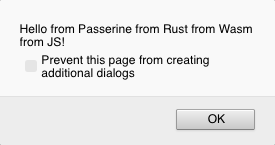
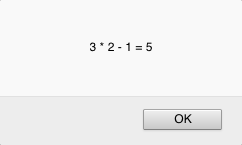
updated readme

diff --git a/README.md b/README.md
@@ -21,19 +21,17 @@ Third, in the `playground` directory, run `wasm-pack build` to build passerine a
 Fourth, to run the playground, `cd` into `playground/site`. Sadly, we have to rely on the JS ecosystem: install dependencies with `npm install` and run the playground locally with `npm run serve`. Eventually, the playground will basically be a little codemirror editor that we can embed on https://passerine.io.
 
 ## You should see
-Right now, there should be a series of alerts that tell you what step of compilation the compiler is on (this is for debugging purposes). After clicking 'OK' a bunch, we'll compile and run the passerine script:
+Right now, I've hooked up a basic Codemirror editor to Passerine:
 
-```
-print "Hello from Passerine from Rust from Wasm from JS!"
-```
+![the editor](./code.png)
 
-Which should result in the message being alerted:
+Upon hitting run, it'll run it (doh):
 
-![The result of the above code snippet being alerted](./alert.png)
+![an alert](./alert.png)
 
 This works because I've remapped Passerine's `print` to JS's `alert` through Passerine's FFI. I can't believe it works so easily!
 
 ## To be done
 - [ ] Make sure passerine is 100% wasm friendly.
 - [X] Hook up the Wasm backend to the codemirror frontend
-- [ ] Polish and Publish!
+- [ ] Styling, Polish, and Publish!
